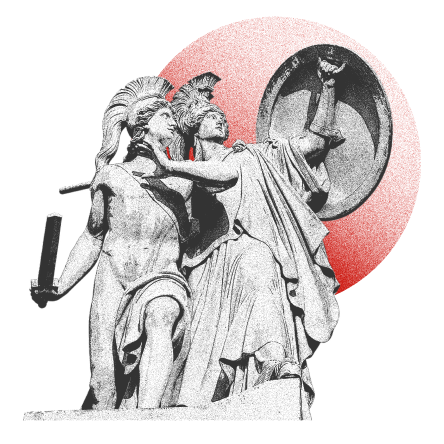
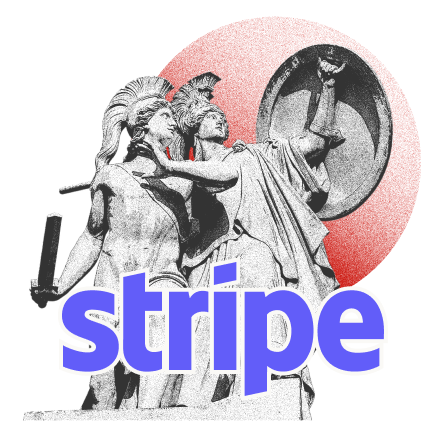
push

Changed region(s): [[0.1171, 0.5856, 0.8784, 0.9077]]

diff --git a/src/components/home/WhySimpGift.tsx b/src/components/home/WhySimpGift.tsx
@@ -3,6 +3,7 @@ import Section from "../ui/Section";
 import { SectionTitleTypeOne } from "../ui/SectionTitle";
 import { twMerge } from "tailwind-merge";
 import Image from "next/image";
+import special_4 from "@/assets/images/special-4.png";
 
 export default function WhySimpGift() {
   return (
@@ -36,12 +37,7 @@ export default function WhySimpGift() {
                     alt={item.title}
                   />
                 </figure>
-                <div
-                  className={twMerge(
-                    " flex flex-col",
-                    index === 3 ? "gap-5" : "gap-1.5"
-                  )}
-                >
+                <div className="flex flex-col gap-1.5">
                   <h3
                     className={
                       index === 3
@@ -51,18 +47,35 @@ export default function WhySimpGift() {
                   >
                     {item.title}
                   </h3>
-                  <p
-                    className={
-                      index === 3
-                        ? "font-urbanist font-light text-[22px] leading-[31.9px] text-red-primary-3 max-w-[450px]"
-                        : "font-light text-black-200 max-w-[361px] md:max-w-[457px] font-urbanist text-[22px] leading-[31.9px]"
-                    }
-                  >
+                  <p className="font-light text-black-200 max-w-[361px] md:max-w-[457px] font-urbanist text-[22px] leading-[31.9px]">
                     {item.description}
                   </p>
                 </div>
               </li>
             ))}
+            <li className="flex self-start flex-row-reverse gap-2">
+              <figure className="size-[222px]">
+                <Image
+                  className="size-full"
+                  src={special_4}
+                  alt={"special_4"}
+                />
+              </figure>
+              <div className="flex flex-col gap-5">
+                <h3 className="capitalize font-yellowTail font-normal text-[38px] leading-[43.7px] text-red-primary-1">
+                  top-notch security
+                </h3>
+                <p className="font-urbanist font-light text-[22px] leading-[31.9px] text-red-primary-3 max-w-[450px]">
+                  Your data is fully encrypted and secured above industry
+                  standards. Our payment system is handled by{" "}
+                  <span className="font-extrabold text-red-primary-1">
+                    Stripe
+                  </span>{" "}
+                  payments ensuring everything will be managed by the best in
+                  the industry.
+                </p>
+              </div>
+            </li>
           </ul>
         </div>
       </div>

diff --git a/src/components/ui/SectionImageSeparator.tsx b/src/components/ui/SectionImageSeparator.tsx
@@ -42,7 +42,7 @@ const SectionImageSeparatorOne = () => {
           No better way to show your love then through a gift.
         </p>
       </motion.figure>
-      <div ref={ref} className="h-[200vh]" />
+      <div ref={ref} className="h-screen" />
     </div>
   );
 };
@@ -58,15 +58,24 @@ const SectionImageSeparatorTwo = () => {
       pEnter();
     }
   }, [isPInView, pEnter]);
+  const ref = useRef<HTMLDivElement>(null);
+  const { scrollYProgress } = useScroll({
+    target: ref,
+    offset: ["start end", "end end"],
+  });
+  const height = useTransform(scrollYProgress, [0, 1], ["25vh", "100vh"]);
   return (
-    <div className="pt-72">
-      <figure className="bg-red-light-1 w-screen h-[400px] relative overflow-hidden ">
+    <div className="mt-72">
+      <motion.figure
+        style={{ height }}
+        className="bg-red-light-1 w-screen h-screen sticky top-0 overflow-hidden "
+      >
         <Image
           src={sectionImageSepearatorBG_2}
           alt="section image separator"
           height={582}
           width={0}
-          className="mix-blend-luminosity size-full object-cover"
+          className="mix-blend-luminosity size-full object-cover object-right"
         />
         <Image
           src={sectionImageSeparator_2}
@@ -79,7 +88,8 @@ const SectionImageSeparatorTwo = () => {
         >
           Give a gift that speaks louder than words.
         </p>
-      </figure>
+      </motion.figure>
+      <div ref={ref} className="h-screen" />
     </div>
   );
 };

diff --git a/src/components/ui/Carousel.tsx b/src/components/ui/Carousel.tsx
@@ -1,0 +1,34 @@
+"use client";
+import { useEffect, useRef, useState } from "react";
+import { motion } from "motion/react";
+
+export default function Carousel({
+  children,
+}: {
+  children: Readonly<React.ReactNode>;
+}) {
+  const [width, setWidth] = useState<number>(0);
+  const carouselRef = useRef<HTMLDivElement>(null);
+  useEffect(() => {
+    const carouselWidth = carouselRef.current?.scrollWidth ?? 0;
+    const innerCarouselWidth = carouselRef.current?.offsetWidth ?? 0;
+    setWidth(carouselWidth - innerCarouselWidth);
+  }, []);
+  return (
+    <div
+      className="overflow-x-scroll overflow-y-hidden w-full spotlightScrollbar"
+      role="carousel"
+      ref={carouselRef}
+    >
+      <motion.ul
+        className="cursor-grab flex items-center justify-center  w-full gap-4 md:gap-12"
+        role="inner-carousel"
+        drag={"x"}
+        dragConstraints={{ right: width, left: -width }}
+        whileTap={{ cursor: "grabbing" }}
+      >
+        {children}
+      </motion.ul>
+    </div>
+  );
+}

diff --git a/src/constants/index.tsx b/src/constants/index.tsx
@@ -1,7 +1,6 @@
 import special_1 from "@/assets/images/special-1.png";
 import special_2 from "@/assets/images/special-2.png";
 import special_3 from "@/assets/images/special-3.png";
-import special_4 from "@/assets/images/special-4.png";
 
 export const navbarItems = [
   { label: "Features", hash: "features" },
@@ -98,12 +97,6 @@ export const whySimpGiftItems = [
     title: "Global Gifting",
     description:
       "Receive gifts from your supporters no matter where they are. We support payments from 89 countries in 89 currencies.",
-  },
-  {
-    src: special_4,
-    title: "top-notch security",
-    description:
-      "Your data is fully encrypted and secured above industry standards. Our payment system is handled by Stripe payments ensuring everything will be managed by the best in the industry.",
   },
 ] as const;
 

diff --git a/src/components/home/FAQ.tsx b/src/components/home/FAQ.tsx
@@ -7,8 +7,12 @@ import { SectionTitleTypeTwo } from "../ui/SectionTitle";
 export default function FAQ() {
   return (
     <Section id="faq" className="pt-[72px] md:pt-[168px] relative">
-      <figure className="w-[195px] -bottom-[270px] h-[244px] xl:w-[400px] xl:h-[500px] 2xl:w-[469px] 2xl:h-[586px] absolute left-0 xl:bottom-auto xl:top-[525px]">
-        <Image src={faqThinker} alt="faq thinker image" className="size-full" />
+      <figure className="w-[195px] -bottom-[270px]  xl:w-[400px]  2xl:w-[469px]  absolute left-0 xl:bottom-auto xl:top-[525px]">
+        <Image
+          src={faqThinker}
+          alt="faq thinker image"
+          className="size-full object-cover"
+        />
       </figure>
       <div className="container">
         <div className="flex flex-col gap-10 lg:gap-20">

diff --git a/src/components/home/Spotlight.tsx b/src/components/home/Spotlight.tsx
@@ -1,3 +1,4 @@
+import Carousel from "../ui/Carousel";
 import Section from "../ui/Section";
 import { SectionTitleTypeOne } from "../ui/SectionTitle";
 
@@ -11,8 +12,12 @@ export default function Spotlight() {
           subText="Get inspired by the many other creators that uses Simp Gifts to build stronger connections with their fans."
           className="top-[22px] -right-[142px] md:top-[50px] md:-right-[245px] lg:-right-[360px]"
         />
-        <div className="mt-[250px]">
-          <ul className="gap-12 flex"></ul>
+        <div className="mt-[250px] w-full">
+          <Carousel>
+            {Array.from({ length: 50 }).map((_, index) => (
+              <li key={index}>{index}</li>
+            ))}
+          </Carousel>
         </div>
       </div>
     </Section>

diff --git a/src/components/layout/Footer.tsx b/src/components/layout/Footer.tsx
@@ -8,7 +8,6 @@ import smallAngel from "@/assets/images/smallAngel-3.png";
 
 export default function Footer() {
   return (
-    // <footer className="pt-[72px] md:pt-[168px] pb-5 relative overflow-hidden">
     <footer
       className="relative h-screen md:h-[50vh] xl:h-screen"
       style={{ clipPath: "polygon(0% 0, 100% 0%, 100% 100%, 0 100%)" }}
@@ -66,6 +65,5 @@ export default function Footer() {
         </div>
       </div>
     </footer>
-    // </footer>
   );
 }

diff --git a/src/app/globals.css b/src/app/globals.css
@@ -10,7 +10,15 @@
 .sectionImageSeparator {
   transform: rotateY(180deg);
 }
-
+.spotlightScrollbar::-webkit-scrollbar {
+  @apply h-[8px];
+}
+.spotlightScrollbar::-webkit-scrollbar-track {
+  @apply bg-white-50;
+}
+.spotlightScrollbar::-webkit-scrollbar-thumb {
+  @apply bg-white-200;
+}
 .line {
   @apply overflow-hidden;
 }
